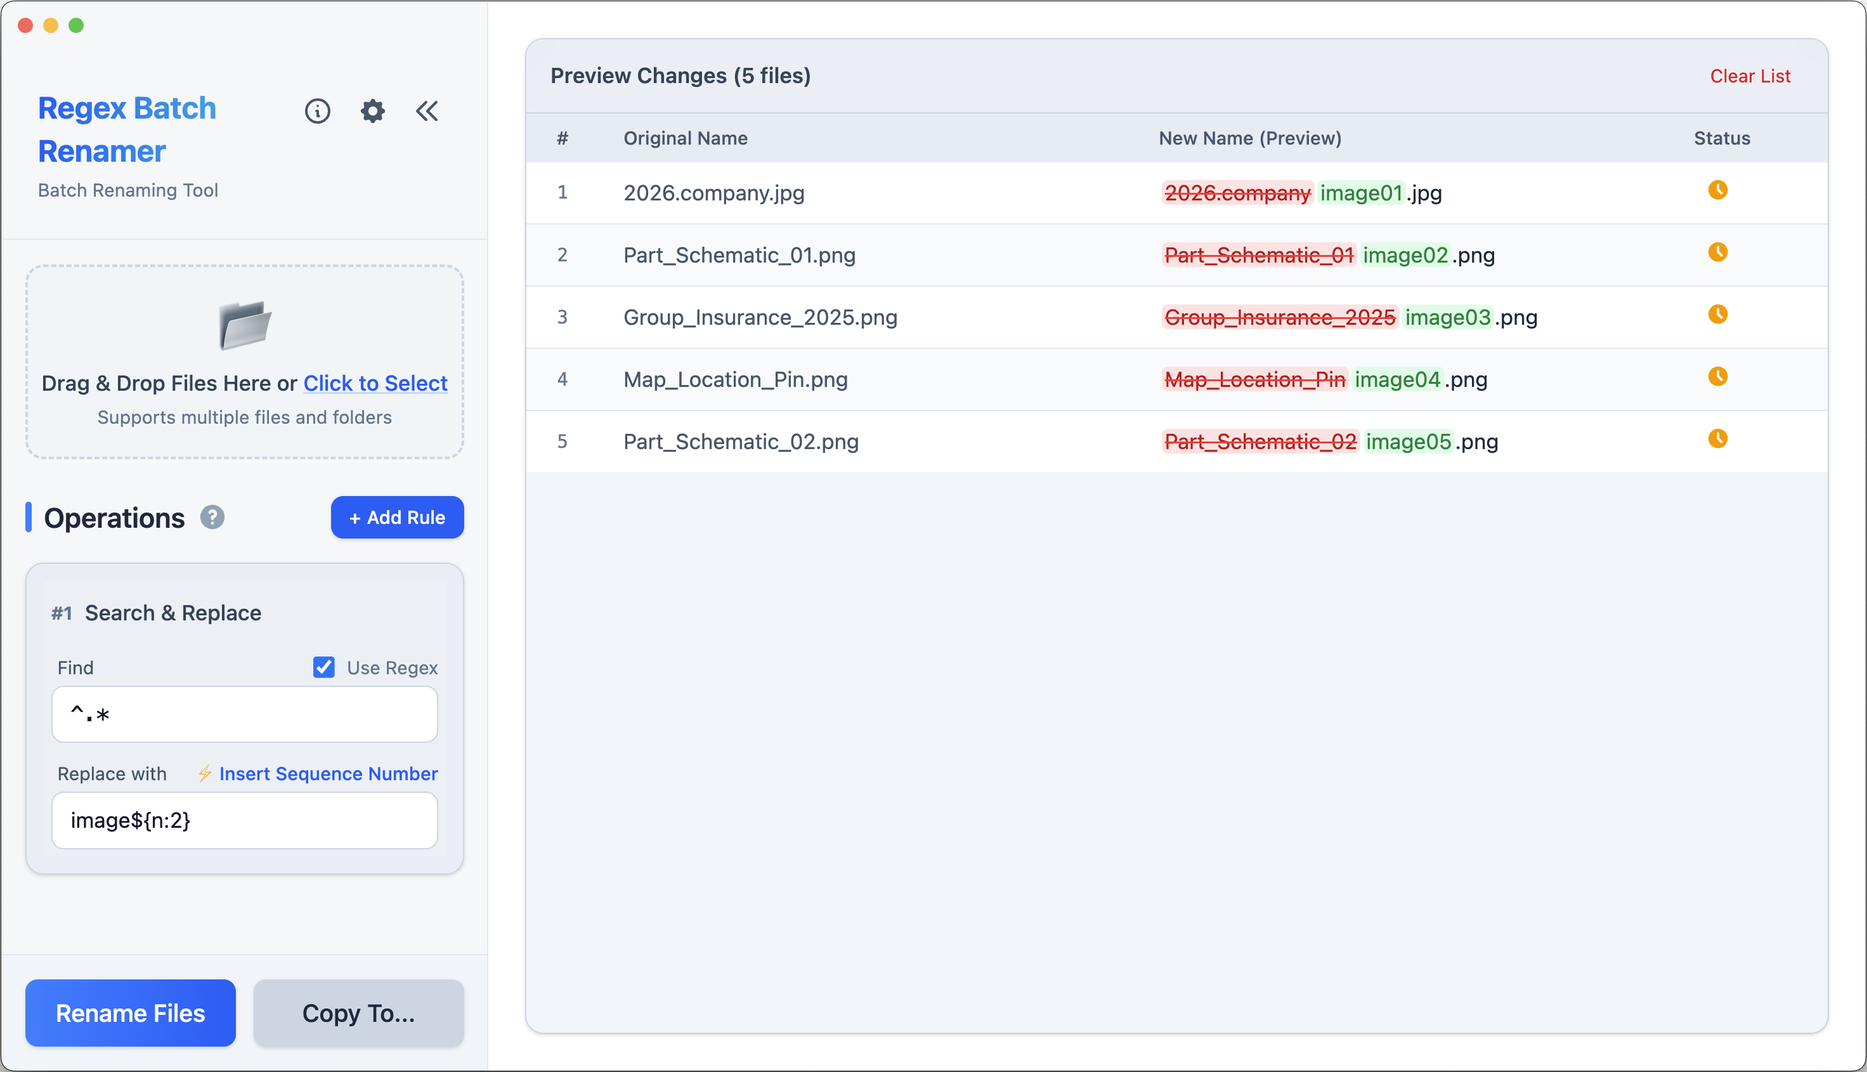
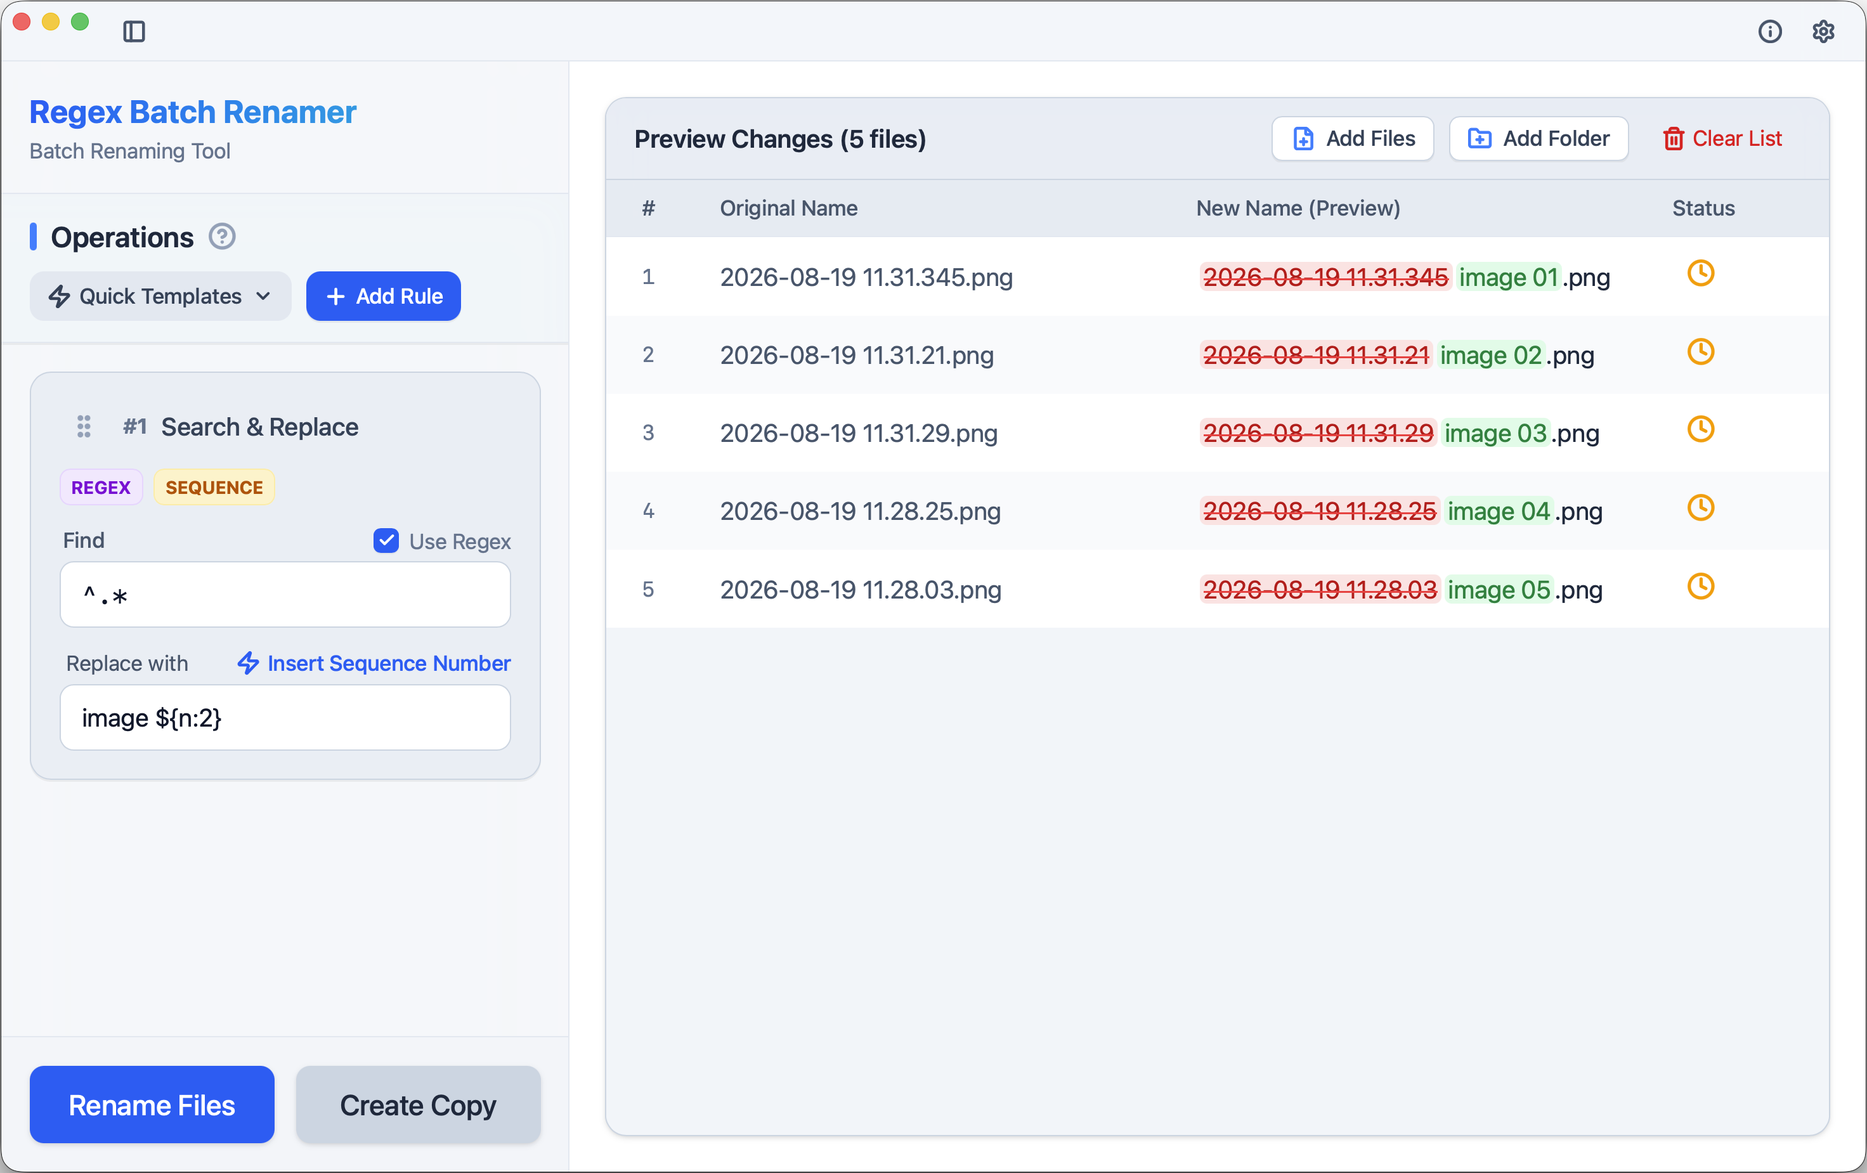
feat: 🎸 — bump version to 0.5.5, enhance sequence helper with live preview, and unify cross-platform checkboxes

diff --git a/src/components/OperationPipeline.vue b/src/components/OperationPipeline.vue
@@ -8,6 +8,7 @@ import PresetManager from './PresetManager.vue'
 import { savePreset, loadPresets, type Preset } from '../services/presetService'
 import { useToastStore } from '../stores/toastStore'
 import {
+  Check,
   ChevronDown,
   Eye,
   EyeOff,
@@ -211,28 +212,47 @@ interface Badge {
   type: string
   label: string
   color: string
+  isLiteral?: boolean
 }
 
 function getBadges(op: any): Badge[] {
   const badges: Badge[] = []
   if (op.type !== 'regex') return badges
 
-  const pattern = op.params.pattern || ''
-  const replacement = op.params.replacement || ''
+  // 1. Type badge (Regex vs Text) always first
+  if (op.params?.useRegex) {
+    badges.push({
+      type: 'mode-regex',
+      label: 'Regex',
+      color: 'bg-purple-100 dark:bg-purple-900/50 text-purple-700 dark:text-purple-300 border border-purple-200 dark:border-purple-800/60',
+      isLiteral: true
+    })
+  } else {
+    badges.push({
+      type: 'mode-text',
+      label: 'Text',
+      color: 'bg-slate-200/80 dark:bg-slate-700/60 text-slate-600 dark:text-slate-400 border border-slate-300/60 dark:border-slate-600/60',
+      isLiteral: true
+    })
+  }
 
+  const pattern = op.params?.pattern || ''
+  const replacement = op.params?.replacement || ''
+
+  // 2. Feature badges: Prefix, Suffix, Sequence
   // Prefix detection: Pattern is exactly '^'
   if (pattern === '^') {
-    badges.push({ type: 'prefix', label: 'badges.prefix', color: 'bg-indigo-100 text-indigo-700 dark:bg-indigo-500/20 dark:text-indigo-300' })
+    badges.push({ type: 'prefix', label: 'badges.prefix', color: 'bg-indigo-100 text-indigo-700 dark:bg-indigo-500/20 dark:text-indigo-300 border border-indigo-200/60 dark:border-indigo-800/50' })
   }
 
   // Suffix detection: Pattern is exactly '$'
   if (pattern === '$') {
-    badges.push({ type: 'suffix', label: 'badges.suffix', color: 'bg-emerald-100 text-emerald-700 dark:bg-emerald-500/20 dark:text-emerald-300' })
+    badges.push({ type: 'suffix', label: 'badges.suffix', color: 'bg-emerald-100 text-emerald-700 dark:bg-emerald-500/20 dark:text-emerald-300 border border-emerald-200/60 dark:border-emerald-800/50' })
   }
 
   // Sequence detection: Replacement contains strictly valid ${n...}
   if (/\$\{n(?::\d+(?::\d+)?)?\}/.test(replacement)) {
-    badges.push({ type: 'sequence', label: 'badges.sequence', color: 'bg-amber-100 text-amber-700 dark:bg-amber-500/20 dark:text-amber-300' })
+    badges.push({ type: 'sequence', label: 'badges.sequence', color: 'bg-amber-100 text-amber-700 dark:bg-amber-500/20 dark:text-amber-300 border border-amber-200/60 dark:border-amber-800/50' })
   }
 
   return badges
@@ -269,10 +289,16 @@ function addRegexOperation() {
 }
 
 const activeHelperId = ref<string | null>(null)
-// ... existing helper logic ...
-const helperWidth = ref(3)
+const helperWidth = ref(1)
 const helperStart = ref(1)
 const inputRefs = ref<Record<string, HTMLInputElement>>({})
+
+const helperPreviewList = computed(() => {
+  const width = Math.max(1, typeof helperWidth.value === 'number' ? helperWidth.value : 1)
+  const start = typeof helperStart.value === 'number' ? helperStart.value : 1
+  const examples = [start, start + 1, start + 2].map(n => n.toString().padStart(width, '0'))
+  return `${examples.join(', ')}...`
+})
 
 function setInputRef(el: any, id: string) {
   if (el) inputRefs.value[id] = el
@@ -280,7 +306,7 @@ function setInputRef(el: any, id: string) {
 
 function openHelper(id: string) {
   activeHelperId.value = id
-  helperWidth.value = 0
+  helperWidth.value = 1
   helperStart.value = 1
 }
 
@@ -304,17 +330,16 @@ function handleKeydown(e: KeyboardEvent) {
 }
 
 function insertVariable() {
-  // ... existing variable logic ...
   if (!activeHelperId.value) return
 
   const op = operationStore.operations.find(o => o.id === activeHelperId.value)
   if (!op) return
 
-  const width = helperWidth.value
-  const start = helperStart.value
+  const width = Math.max(1, typeof helperWidth.value === 'number' ? helperWidth.value : 1)
+  const start = typeof helperStart.value === 'number' ? helperStart.value : 1
 
   let varStr = '${n'
-  if (width > 0 || start !== 1) {
+  if (width > 1 || start !== 1) {
     varStr += `:${width}`
     if (start !== 1) {
       varStr += `:${start}`
@@ -610,25 +635,20 @@ function confirmPrefixSuffix() {
             '!border-t-4 !border-t-blue-500 dark:!border-t-blue-400': operationDropTargetId === op.id && operationDropPosition === 'before',
             '!border-b-4 !border-b-blue-500 dark:!border-b-blue-400': operationDropTargetId === op.id && operationDropPosition === 'after'
           }">
-          <div class="flex items-center justify-between mb-3 select-none group/header">
-            <div class="flex items-center gap-2">
+          <div class="flex items-center justify-between mb-2.5 select-none group/header">
+            <div class="flex items-center gap-2 min-w-0">
               <button type="button"
-                class="drag-handle inline-flex h-7 w-7 items-center justify-center rounded-md text-slate-400 hover:bg-slate-300/70 hover:text-slate-600 dark:text-slate-500 dark:hover:bg-slate-700 dark:hover:text-slate-300 cursor-grab active:cursor-grabbing"
+                class="drag-handle inline-flex h-7 w-7 shrink-0 items-center justify-center rounded-md text-slate-400 hover:bg-slate-300/70 hover:text-slate-600 dark:text-slate-500 dark:hover:bg-slate-700 dark:hover:text-slate-300 cursor-grab active:cursor-grabbing"
                 @pointerdown.stop="startOperationReorder($event, op.id)"
                 :title="$t('operations.reorder')">
                 <GripVertical class="h-4 w-4" />
               </button>
-              <span class="text-xs font-bold text-slate-500 dark:text-slate-500">#{{ index + 1 }}</span>
-              <span class="text-sm font-medium text-slate-700 dark:text-slate-200">
+              <span class="text-xs font-bold text-slate-500 dark:text-slate-500 shrink-0">#{{ index + 1 }}</span>
+              <span class="text-sm font-medium text-slate-700 dark:text-slate-200 truncate">
                 {{ op.type === 'regex' ? $t('operations.regex') : $t('operations.other') }}
               </span>
-              <span v-if="op.type === 'regex'"
-                class="text-[10px] font-semibold px-1.5 py-0.5 rounded-md transition-colors"
-                :class="op.params.useRegex ? 'bg-purple-100 dark:bg-purple-900/50 text-purple-700 dark:text-purple-300 border border-purple-200 dark:border-purple-800/60' : 'bg-slate-200/80 dark:bg-slate-700/60 text-slate-500 dark:text-slate-400 border border-slate-300/60 dark:border-slate-600/60'">
-                {{ op.params.useRegex ? 'Regex' : 'Text' }}
-              </span>
             </div>
-            <div class="flex items-center gap-1 opacity-0 group-hover:opacity-100 transition-opacity">
+            <div class="flex items-center gap-1 opacity-0 group-hover:opacity-100 transition-opacity shrink-0">
               <button @click="operationStore.toggleOperation(op.id)"
                 class="p-1 text-slate-500 dark:text-slate-400 hover:text-blue-600 dark:hover:text-blue-400 rounded hover:bg-slate-300 dark:hover:bg-slate-700 cursor-pointer mr-2"
                 :title="$t('operations.toggleEnable')">
@@ -643,23 +663,28 @@ function confirmPrefixSuffix() {
             </div>
           </div>
 
-          <!-- Smart Badges (New Row) -->
-          <div v-if="getBadges(op).length" class="flex gap-1 mb-3 -mt-1">
+          <!-- Smart Badges (Type badge first, then features) -->
+          <div v-if="getBadges(op).length" class="flex flex-wrap items-center gap-1.5 mb-3">
             <span v-for="badge in getBadges(op)" :key="badge.type"
               class="text-[10px] uppercase font-bold px-1.5 py-0.5 rounded-md" :class="badge.color">
-              {{ $t(badge.label) }}
+              {{ badge.isLiteral ? badge.label : $t(badge.label) }}
             </span>
           </div>
 
           <div v-if="op.type === 'regex'" class="space-y-3">
             <div class="space-y-1">
-              <div class="flex justify-between items-center">
-                <label class="text-xs text-slate-600 dark:text-slate-400 ml-1">{{ $t('operations.patternLabel')
+              <div class="flex justify-between items-center mb-1">
+                <label class="text-xs font-medium text-slate-600 dark:text-slate-400 ml-0.5">{{ $t('operations.patternLabel')
                   }}</label>
-                <label class="flex items-center gap-2 cursor-pointer">
-                  <input type="checkbox" v-model="op.params.useRegex"
-                    class="w-3.5 h-3.5 rounded border-slate-300 text-blue-600 focus:ring-blue-500">
-                  <span class="text-xs text-slate-500 dark:text-slate-400">{{ $t('operations.useRegex') }}</span>
+                <label class="flex items-center gap-1.5 cursor-pointer group/cb select-none">
+                  <div class="relative flex items-center justify-center shrink-0">
+                    <input type="checkbox" v-model="op.params.useRegex" class="sr-only peer">
+                    <div
+                      class="w-3.5 h-3.5 rounded-sm border border-slate-300 dark:border-slate-600 bg-white dark:bg-slate-900 peer-checked:bg-blue-600 peer-checked:border-blue-600 peer-focus-visible:ring-2 peer-focus-visible:ring-blue-500/40 transition-all flex items-center justify-center shadow-2xs group-hover/cb:border-slate-400 dark:group-hover/cb:border-slate-500">
+                      <Check v-if="op.params.useRegex" class="w-2.5 h-2.5 text-white stroke-[3.5]" />
+                    </div>
+                  </div>
+                  <span class="text-xs text-slate-500 dark:text-slate-400 group-hover/cb:text-slate-700 dark:group-hover/cb:text-slate-300 transition-colors leading-none pt-px">{{ $t('operations.useRegex') }}</span>
                 </label>
               </div>
               <input v-model="op.params.pattern" type="text"
@@ -726,7 +751,7 @@ function confirmPrefixSuffix() {
                 <label class="block text-sm font-medium text-slate-700 dark:text-slate-300">
                   {{ $t('operations.variableWidth') }}
                 </label>
-                <input type="number" v-model.number="helperWidth" min="0" max="10"
+                <input type="number" v-model.number="helperWidth" min="1" max="10"
                   class="w-full px-3 py-2 text-sm border border-slate-300 dark:border-slate-600 rounded-lg dark:bg-slate-900 dark:text-white focus:outline-none focus:border-blue-500 focus:ring-1 focus:ring-blue-500/50">
               </div>
               <div class="space-y-2">
@@ -735,6 +760,16 @@ function confirmPrefixSuffix() {
                 </label>
                 <input type="number" v-model.number="helperStart" min="0"
                   class="w-full px-3 py-2 text-sm border border-slate-300 dark:border-slate-600 rounded-lg dark:bg-slate-900 dark:text-white focus:outline-none focus:border-blue-500 focus:ring-1 focus:ring-blue-500/50">
+              </div>
+
+              <!-- Real-time Preview -->
+              <div class="p-3 bg-slate-100/80 dark:bg-slate-900/60 border border-slate-200 dark:border-slate-700/80 rounded-lg space-y-1">
+                <div class="text-xs text-slate-500 dark:text-slate-400 font-medium">
+                  {{ $t('operations.preview') }}
+                </div>
+                <div class="font-mono text-sm font-bold text-blue-600 dark:text-blue-400 tracking-wide select-text">
+                  {{ helperPreviewList }}
+                </div>
               </div>
             </div>
 

diff --git a/src/components/SettingsModal.vue b/src/components/SettingsModal.vue
@@ -189,32 +189,42 @@ function handleThemeChange(event: MouseEvent, value: 'auto' | 'light' | 'dark') 
                                 {{ $t('settings.defaults') }}
                             </h3>
 
-                            <label class="flex items-start gap-3 cursor-pointer group">
-                                <input type="checkbox" v-model="settingsStore.defaultUseRegex"
-                                    class="mt-0.5 w-4 h-4 rounded border-slate-300 text-blue-600 focus:ring-blue-500">
-                                <div>
+                            <label class="block cursor-pointer group/item select-none space-y-1">
+                                <div class="flex items-center gap-2.5">
+                                    <div class="relative flex items-center justify-center shrink-0">
+                                        <input type="checkbox" v-model="settingsStore.defaultUseRegex" class="sr-only peer">
+                                        <div
+                                            class="w-4 h-4 rounded-md border border-slate-300 dark:border-slate-600 bg-white dark:bg-slate-900 peer-checked:bg-blue-600 peer-checked:border-blue-600 peer-focus-visible:ring-2 peer-focus-visible:ring-blue-500/40 transition-all flex items-center justify-center shadow-2xs group-hover/item:border-slate-400 dark:group-hover/item:border-slate-500">
+                                            <Check v-if="settingsStore.defaultUseRegex" class="w-3 h-3 text-white stroke-[3.5]" />
+                                        </div>
+                                    </div>
                                     <span
-                                        class="text-sm font-medium text-slate-700 dark:text-slate-200 group-hover:text-blue-600 dark:group-hover:text-blue-400 transition-colors">
+                                        class="text-sm font-medium text-slate-700 dark:text-slate-200 group-hover/item:text-blue-600 dark:group-hover/item:text-blue-400 transition-colors leading-none pt-px">
                                         {{ $t('settings.defaultUseRegex') }}
                                     </span>
-                                    <p class="text-xs text-slate-500 dark:text-slate-400 mt-0.5">
-                                        {{ $t('settings.defaultUseRegexDesc') }}
-                                    </p>
                                 </div>
+                                <p class="text-xs text-slate-500 dark:text-slate-400 pl-[26px]">
+                                    {{ $t('settings.defaultUseRegexDesc') }}
+                                </p>
                             </label>
 
-                            <label class="flex items-start gap-3 cursor-pointer group">
-                                <input type="checkbox" v-model="settingsStore.processFilenameOnly"
-                                    class="mt-0.5 w-4 h-4 rounded border-slate-300 text-blue-600 focus:ring-blue-500">
-                                <div>
+                            <label class="block cursor-pointer group/item select-none space-y-1">
+                                <div class="flex items-center gap-2.5">
+                                    <div class="relative flex items-center justify-center shrink-0">
+                                        <input type="checkbox" v-model="settingsStore.processFilenameOnly" class="sr-only peer">
+                                        <div
+                                            class="w-4 h-4 rounded-md border border-slate-300 dark:border-slate-600 bg-white dark:bg-slate-900 peer-checked:bg-blue-600 peer-checked:border-blue-600 peer-focus-visible:ring-2 peer-focus-visible:ring-blue-500/40 transition-all flex items-center justify-center shadow-2xs group-hover/item:border-slate-400 dark:group-hover/item:border-slate-500">
+                                            <Check v-if="settingsStore.processFilenameOnly" class="w-3 h-3 text-white stroke-[3.5]" />
+                                        </div>
+                                    </div>
                                     <span
-                                        class="text-sm font-medium text-slate-700 dark:text-slate-200 group-hover:text-blue-600 dark:group-hover:text-blue-400 transition-colors">
+                                        class="text-sm font-medium text-slate-700 dark:text-slate-200 group-hover/item:text-blue-600 dark:group-hover/item:text-blue-400 transition-colors leading-none pt-px">
                                         {{ $t('settings.processFilenameOnly') }}
                                     </span>
-                                    <p class="text-xs text-slate-500 dark:text-slate-400 mt-0.5">
-                                        {{ $t('settings.processFilenameOnlyDesc') }}
-                                    </p>
                                 </div>
+                                <p class="text-xs text-slate-500 dark:text-slate-400 pl-[26px]">
+                                    {{ $t('settings.processFilenameOnlyDesc') }}
+                                </p>
                             </label>
                         </div>
 

diff --git a/src/App.vue b/src/App.vue
@@ -28,6 +28,11 @@ const isProcessing = ref(false)
 const isInstallingUpdate = ref(false)
 const isSidebarCollapsed = ref(false)
 const isMac = ref(false)
+const macTrafficLightsPadding = computed(() => {
+  if (!isMac.value) return '4px'
+  const zoomFactor = Math.max(0.5, (settingsStore.zoomLevel || 100) / 100)
+  return `${Math.round(72 / zoomFactor)}px`
+})
 const runtimeInfo = ref<DesktopRuntimeInfo | null>(null)
 const showAbout = ref(false)
 const aboutInitialView = ref<'about' | 'changelog'>('about')
@@ -466,7 +471,7 @@ async function handleCopyTo() {
       class="h-[34px] w-full shrink-0 flex items-center justify-between border-b border-slate-200 dark:border-slate-800 bg-slate-100/80 dark:bg-slate-900/80 backdrop-blur-xl px-3 z-30 select-none"
     >
       <!-- Left Section: Traffic Lights Safe Area + 常駐收合按鈕 (w-6 h-6 像素級垂直中心對齊) -->
-      <div class="flex items-center no-drag" :class="{ 'pl-[70px]': isMac, 'pl-1': !isMac }">
+      <div class="flex items-center no-drag" :style="{ paddingLeft: macTrafficLightsPadding }">
         <button
           @click="isSidebarCollapsed = !isSidebarCollapsed"
           :title="isSidebarCollapsed ? $t('app.showSidebar') : $t('app.hideSidebar')"

diff --git a/RELEASE_NOTE_v0.5.5.md b/RELEASE_NOTE_v0.5.5.md
@@ -1,0 +1,41 @@
+# Regex Batch Renamer v0.5.5
+
+✨ Improvements & Fixes / 優化與修正
+
+- **Cross-Platform Custom Checkboxes / 全平台一致性自訂 Checkbox**：
+    - Replaced native browser checkboxes with fully customized, pixel-perfect checkbox components.
+    - Achieved 100% visual consistency across macOS (WebKit), Windows (WebView2), and Linux (WebKitGTK).
+    - Refined vertical alignment between checkboxes and accompanying label text for a polished appearance.
+    - 全面將原生瀏覽器勾選框替換為純自訂、像素級一致的 Checkbox 元件。
+    - 在 macOS、Windows 及 Linux 上實現 100% 一致的外框、圓角、選取狀態與向量勾勾效果。
+    - 精確調校 Checkbox 與標題文字的垂直中線對齊，消除字體基線落差。
+
+- **Intuitive Sequence Number Helper / 更直覺的插入序號引導與即時預覽**：
+    - Updated default sequence width to `1` (1-based digits) to remove the ambiguity between `0` and `1`.
+    - Added a real-time preview panel in the helper modal to visualize sequence formats (e.g., `01, 02, 03...`) instantly as settings change.
+    - Reduced user steps: one single click on `▲` directly configures 2-digit zero-padding (`01, 02`).
+    - 將序號位數預設值改為直觀的 `1` 起點，消除原本 `0` 與 `1` 效果重複的困惑。
+    - 在插入序號彈窗內新增「即時效果預覽」區塊，調整位數或起始值時即時呈現數字範例（如 `01, 02, 03...`）。
+    - 簡化操作步驟：想要兩位數補零只需點擊一下 `▲` 即可直接完成設定。
+
+- **UI Layout & Zoom Alignment Polish / 介面排版與縮放對齊修正**：
+    - Reorganized rule card header by moving all status badges to a dedicated second row, preventing title text wrapping in English.
+    - Ordered badges by priority: mode type first (`REGEX` / `TEXT`), followed by rule features (`SEQUENCE`, `PREFIX`, `SUFFIX`).
+    - Implemented dynamic zoom compensation for the macOS sidebar toggle button, keeping it perfectly aligned with native traffic lights across all zoom levels (80% - 200%).
+    - 重新整理規則卡片排版，將所有 Badges 集中至第二行專屬列，徹底解決英文語系下標題因空間不足而折行的問題。
+    - 規範 Badges 呈現順序：類型標籤優先（`REGEX` / `TEXT`），接續特性標籤（`SEQUENCE`、`PREFIX`、`SUFFIX`）。
+    - 為 macOS 頂部收合按鈕引入介面縮放動態補償算法，在任意縮放比例（80% ~ 200%）下與原生紅綠燈均保持恆定安全間距，杜絕錯位。
+
+## 📥 Installation / 安裝說明
+
+### macOS Users / macOS 使用者
+
+> ⚠ Note / 注意事項
+> Since this app is not signed with an Apple Developer Certificate, you might see an "App is damaged" error.
+> 由於軟體未經 Apple 開發者簽章，開啟時可能會出現 「應用程式已損毀」 的錯誤。
+
+Please run the following command in Terminal to fix it:
+請開啟終端機 (Terminal) 執行以下指令修復：
+```bash
+sudo xattr -r -d com.apple.quarantine "/Applications/Regex Batch Renamer.app"
+```
